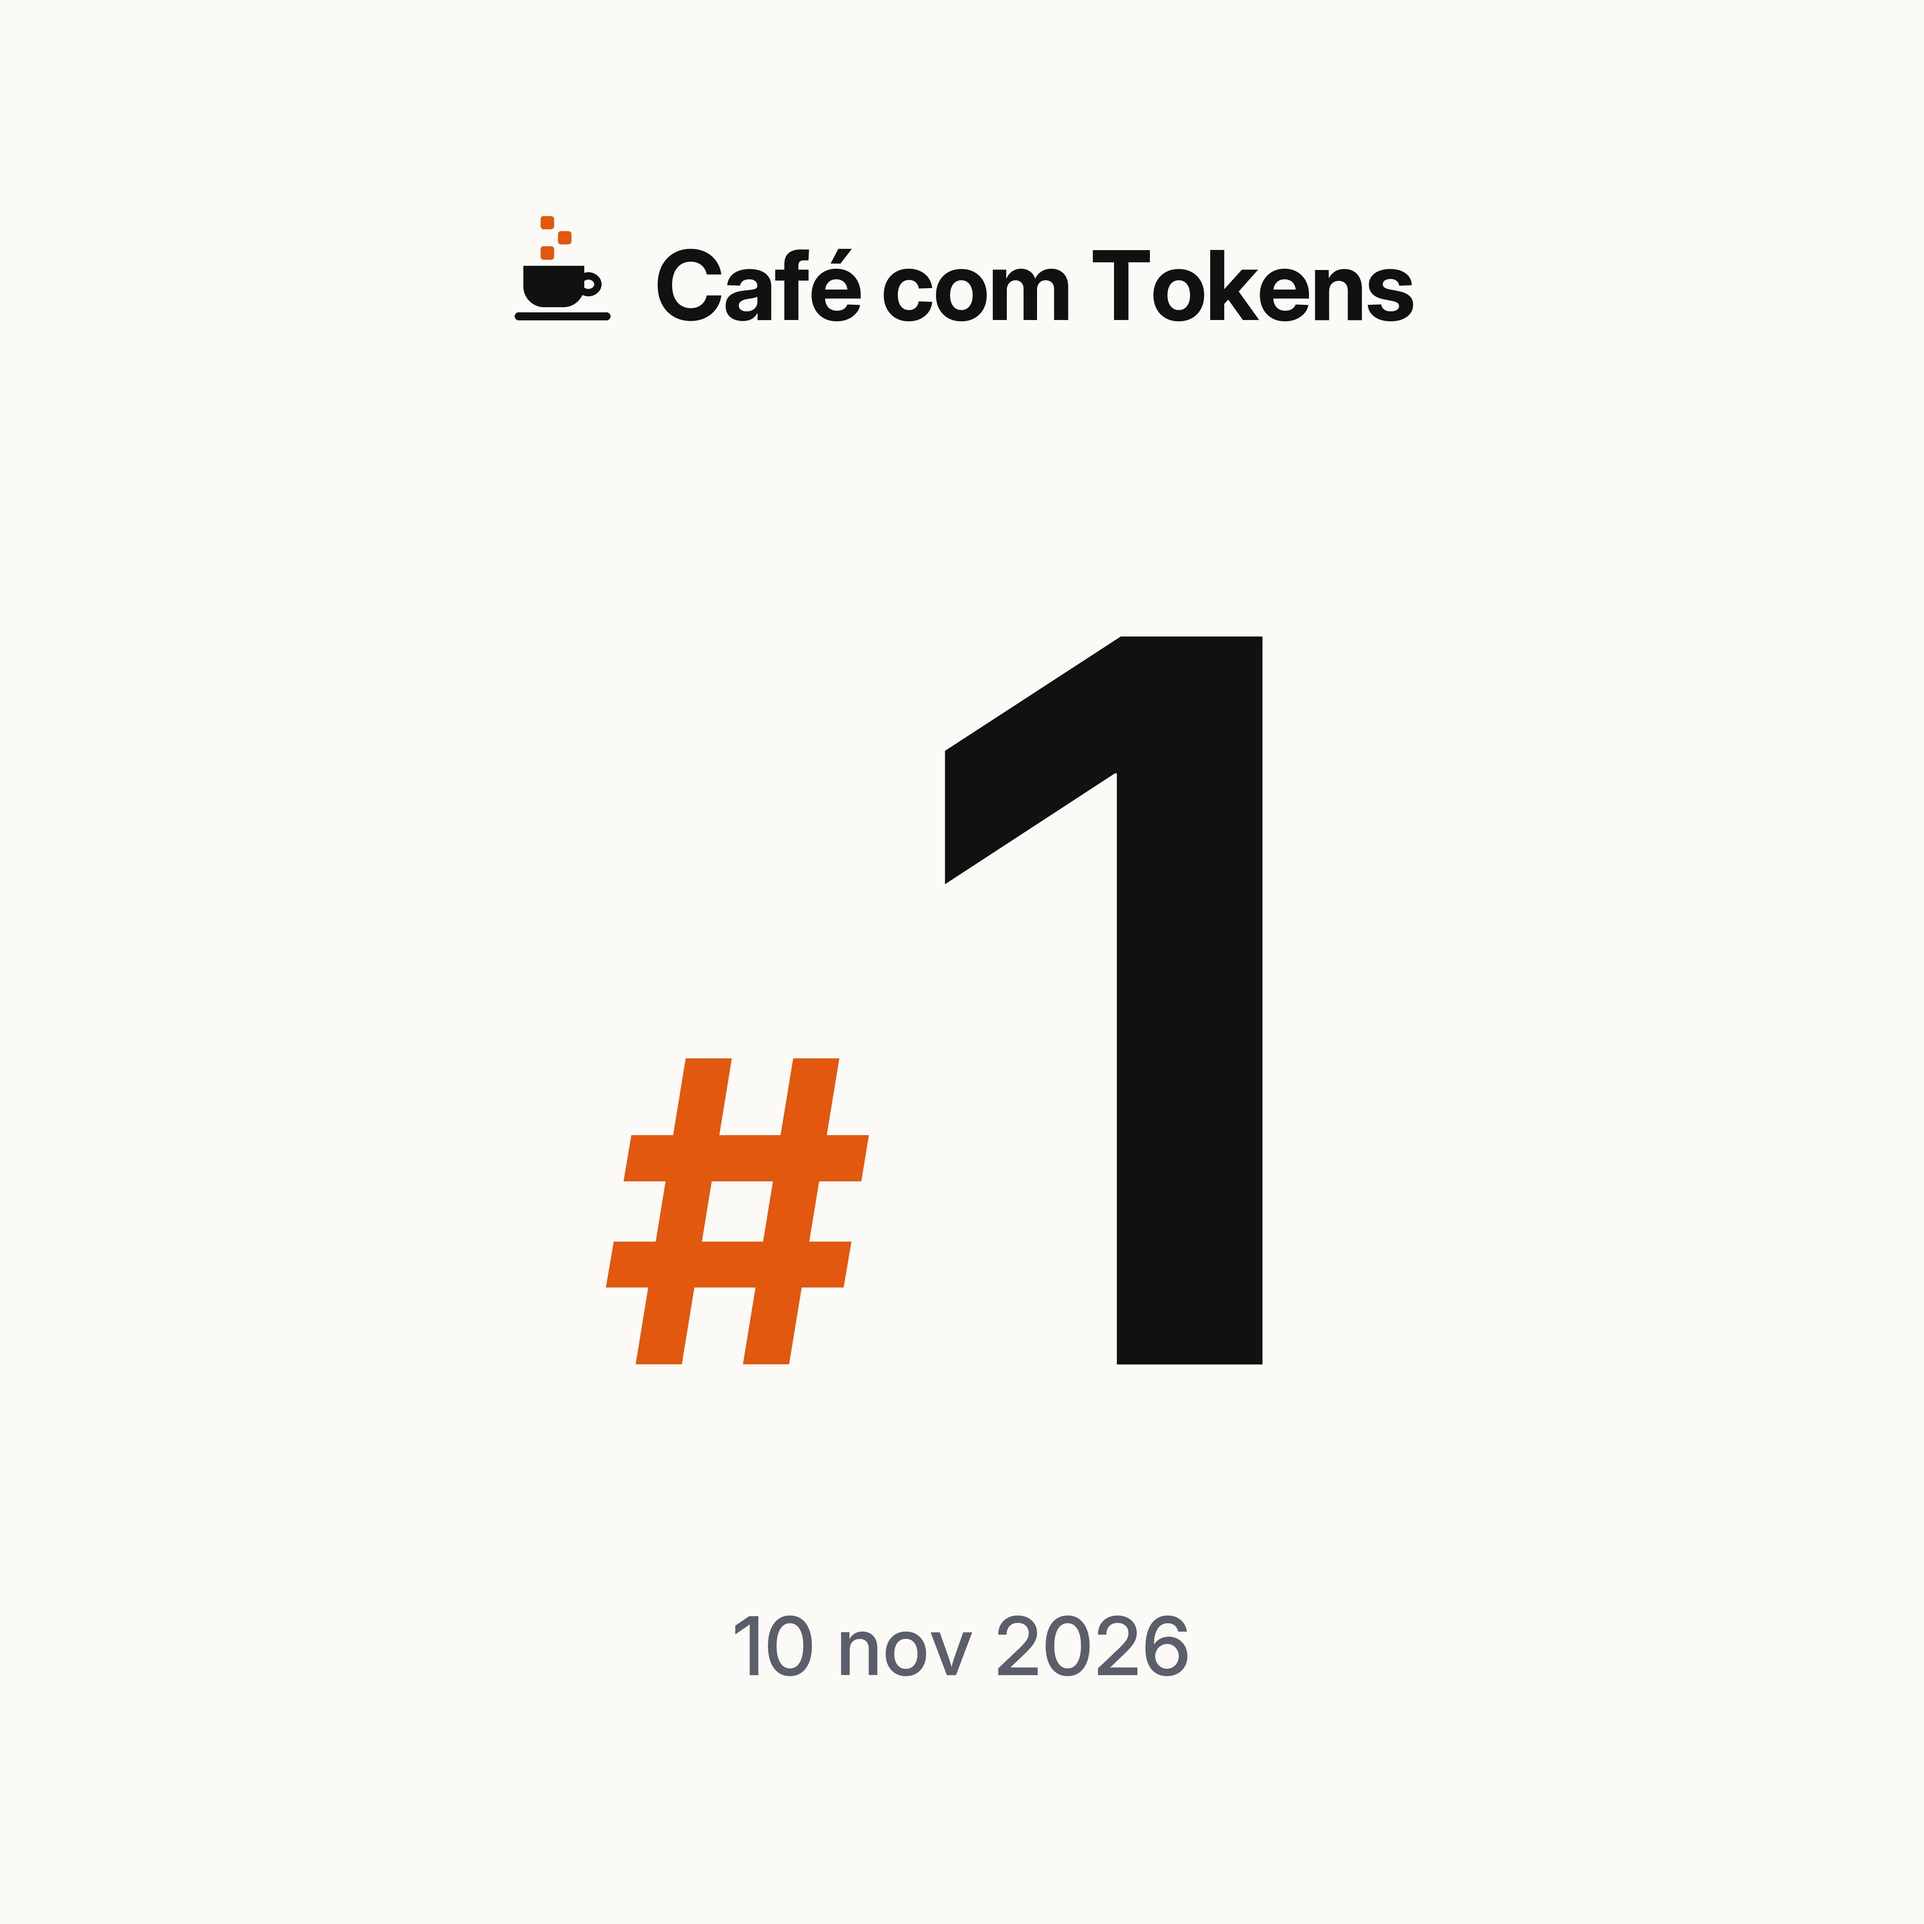
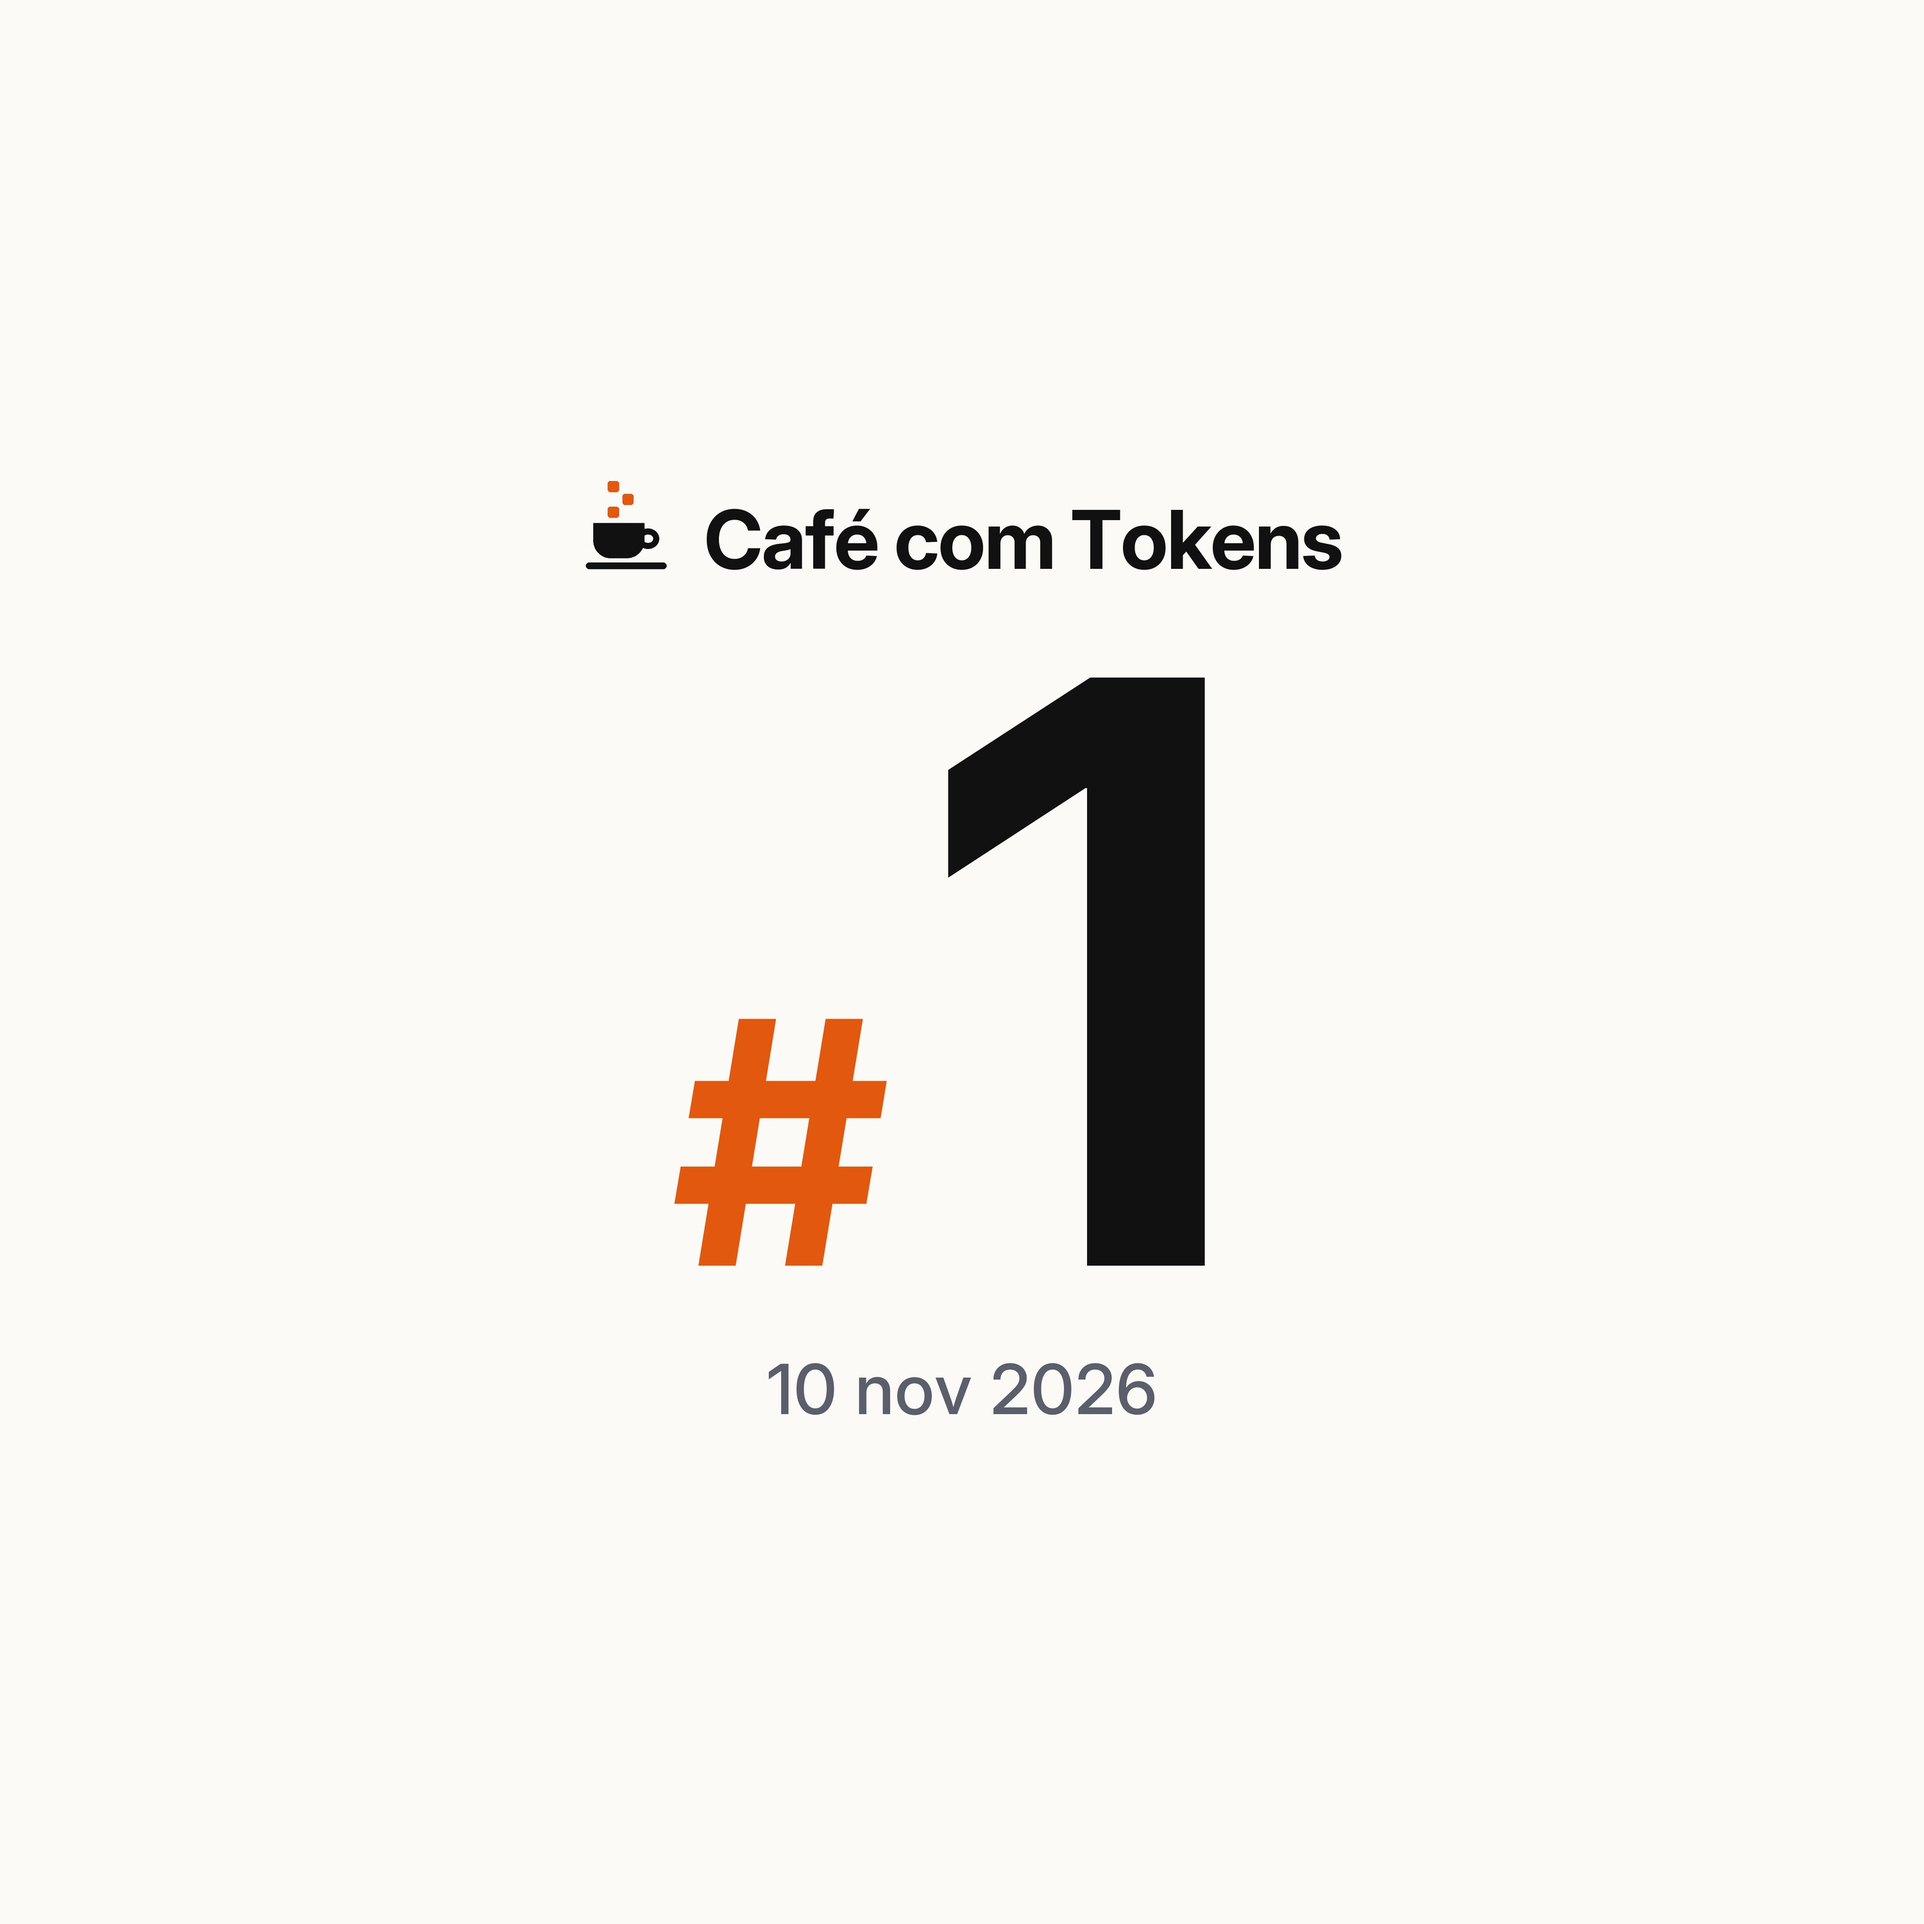
Capa do episodio com tudo na faixa central (segura em card 16:9)

diff --git a/capas.py b/capas.py
@@ -130,24 +130,25 @@ def data_curta(iso):
 
 
 def capa_episodio(numero, data_iso, lado=3000):
-    """Capa do episódio: número gigante no centro, marca discreta em cima e data embaixo."""
+    """Capa do episódio. Quadrada (Apple exige), mas o Spotify corta em 16:9 no card do episódio:
+    tudo fica na faixa central de 56% da altura (y 22% a 78%), com folga, e funciona nos dois formatos."""
     img, d = tela(lado)
     W = lado * SS
     cx = W / 2
     # marca: símbolo + nome em uma linha
-    f_marca = fonte("Bold", W * 0.05)
+    f_marca = fonte("Bold", W * 0.042)
     h_m = altura_caps(f_marca)
     s = h_m * 1.55
     nome = "Café com Tokens"
     l_nome = largura(nome, f_marca, -0.02)
     gap = s * 0.35
     total = s + gap + l_nome
-    y_m = W * 0.13
+    y_m = W * 0.265
     desenhar_simbolo(d, cx - total / 2, y_m + h_m - s, s)
     texto_centro(d, cx - total / 2 + s + gap + l_nome / 2, y_m, nome, f_marca, TINTA, -0.02)
     # número: maior possível dentro de 80% da largura
     num = str(numero)
-    px = W * 0.52
+    px = W * 0.42
     while True:
         f_num = fonte("Bold", px)
         f_hash = fonte("Bold", px * 0.42)
@@ -157,14 +158,14 @@ def capa_episodio(numero, data_iso, lado=3000):
             break
         px *= 0.95
     h_num = altura_caps(f_num)
-    topo = W * 0.52 - h_num / 2
+    topo = W * 0.505 - h_num / 2
     x0 = cx - (lh + ln) / 2
     _, t_h, _, b_h = f_hash.getbbox("#")
     d.text((x0, topo + h_num - b_h), "#", font=f_hash, fill=ACENTO)   # base do # na base do número
     texto_centro(d, x0 + lh + ln / 2, topo, num, f_num, TINTA, -0.05)
     # data
-    f_data = fonte("Medium", W * 0.042)
-    texto_centro(d, cx, W * 0.84, data_curta(data_iso), f_data, CINZA, 0)
+    f_data = fonte("Medium", W * 0.036)
+    texto_centro(d, cx, W * 0.735 - altura_caps(f_data), data_curta(data_iso), f_data, CINZA, 0)
     return finalizar(img, lado)
 
 

diff --git a/main.py b/main.py
@@ -466,7 +466,7 @@ def garantir_capa(ep):
         os.makedirs(CAPAS_DIR, exist_ok=True)
         capas.salvar_jpg(capas.capa_episodio(ep["numero"], ep["data"]), caminho)
         print(f"Capa do episódio: {caminho}")
-    return f"capas/{ep['tag']}.jpg"
+    return f"capas/{ep['tag']}.jpg?v=2"  # ?v= muda quando o desenho mudar (fura o cache do Spotify)
 
 
 def montar_feed(episodios):
